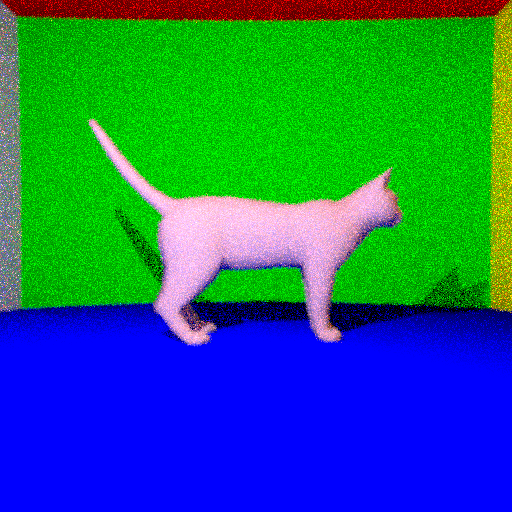
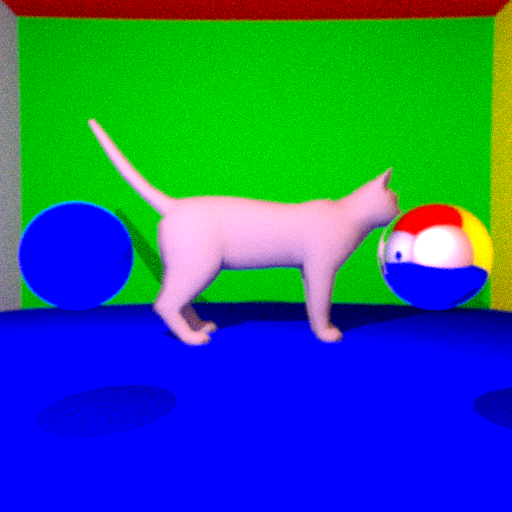
BVH implementation

diff --git a/TD1/ray_tracer.cpp b/TD1/ray_tracer.cpp
@@ -11,6 +11,7 @@
 #include <iostream>
 #define PI 3.1415296
 #define EPS 0.001
+#define BVH_LEAF_THRESHOLD 4
 
 #include <random>
 static std::default_random_engine engine (10); // random seed = 10
@@ -144,94 +145,108 @@ struct Intersection{
 }; 
 
 
-class BoundingBox {
-    public:
-        Vector B_min;
-        Vector B_max;
+struct BoundingBox {
+    
+    Vector B_min;
+    Vector B_max;
 
-        BoundingBox(){
-            B_min = Vector(std::numeric_limits<double>::max(), std::numeric_limits<double>::max(), std::numeric_limits<double>::max());
-            B_max = Vector(std::numeric_limits<double>::min(), std::numeric_limits<double>::min(), std::numeric_limits<double>::min());
+    BoundingBox(){
+        B_min = Vector(std::numeric_limits<double>::max(), std::numeric_limits<double>::max(), std::numeric_limits<double>::max());
+        B_max = Vector(std::numeric_limits<double>::min(), std::numeric_limits<double>::min(), std::numeric_limits<double>::min());
+    }
+    BoundingBox(Vector B_min, Vector B_max) : B_min{B_min}, B_max{B_max}{}
+
+    int getLongestAxis(){
+        Vector diff = B_max - B_min;
+        if (diff[0] <= diff[1] && diff[0] <= diff[2]){
+            return 0;
         }
-        BoundingBox(Vector B_min, Vector B_max) : B_min{B_min}, B_max{B_max}{}
-
-        int getLongestAxis(){
-            Vector diff = B_max - B_min;
-            if (diff[0] <= diff[1] && diff[0] <= diff[2]){
-                return 0;
-            }
-            else if (diff[1] <= diff[0] && diff[1] <= diff[2]){
-                return 1;
-            }
-            return 2;
+        else if (diff[1] <= diff[0] && diff[1] <= diff[2]){
+            return 1;
         }
-        
-        bool intersect(const Ray& ray){
-            bool originInBox = true;
-            
-            for (int i = 0; i < 3; ++i){
-                if (ray.origin[i] < B_min[i] || ray.origin[i] > B_max[i]){
-                    originInBox = false;
-                    break;
-                }
-            }
-            if (originInBox){
-                return true;
-            }
-            if (ray.direction[0] == 0 || ray.direction[1] == 0 || ray.direction[2] == 0){
-                return false;
-            }
+        return 2;
+    }
+    
+    bool intersect(const Ray& ray, double& t){
+        bool originInBox = true;
 
-            double ts[6];
-            for (int i = 0; i < 6; ++i){
-                int j = i / 2;
-                if (i % 2 == 0){
-                    ts[i] = (B_min[j] - ray.origin[j]) / ray.direction[j];
+        double ts[6];
+        for (int i = 0; i < 6; ++i){
+            int j = i / 2;
+            if (i % 2 == 0){
+                if (ray.direction[j] == 0.){
+                    if (ray.origin[j] >= B_min[j] && ray.origin[j] <= B_max[j]){
+                        ts[i] = std::numeric_limits<double>::min();
+                        ts[i + 1] = std::numeric_limits<double>::max();
+                    }   
+                    else{
+                        return false;
+                    }
+                    continue;
                 }
-                else{
-                    ts[i] = (B_max[j] - ray.origin[j]) / ray.direction[j];
-                }
-            }
-
-            double mint1, maxt0;
-
-            if (ts[0] < ts[1]){
-                mint1 = ts[1];
-                maxt0 = ts[0];
+                ts[i] = (B_min[j] - ray.origin[j]) / ray.direction[j];
             }
             else{
-                maxt0 = ts[1];
-                mint1 = ts[0];
+                if (ray.direction[j] == 0.){
+                    continue;
+                }
+                ts[i] = (B_max[j] - ray.origin[j]) / ray.direction[j];
             }
-            if (ts[2] < ts[3]){
-                mint1 = std::min(mint1, ts[3]);
-                maxt0 = std::max(maxt0, ts[2]);
-            }
-            else{
-                maxt0 = std::max(maxt0, ts[3]);
-                mint1 = std::min(mint1, ts[2]);
-            }
-            if (ts[4] < ts[5]){
-                mint1 = std::min(mint1, ts[5]);
-                maxt0 = std::max(maxt0, ts[4]);
-            }
-            else{
-                maxt0 = std::max(maxt0, ts[5]);
-                mint1 = std::min(mint1, ts[4]);
-            }
-            
-            return mint1 > maxt0;
-
         }
+
+        double mint1, maxt0;
+
+        if (ts[0] < ts[1]){
+            mint1 = ts[1];
+            maxt0 = ts[0];
+        }
+        else{
+            maxt0 = ts[1];
+            mint1 = ts[0];
+        }
+        if (ts[2] < ts[3]){
+            mint1 = std::min(mint1, ts[3]);
+            maxt0 = std::max(maxt0, ts[2]);
+        }
+        else{
+            maxt0 = std::max(maxt0, ts[3]);
+            mint1 = std::min(mint1, ts[2]);
+        }
+        if (ts[4] < ts[5]){
+            mint1 = std::min(mint1, ts[5]);
+            maxt0 = std::max(maxt0, ts[4]);
+        }
+        else{
+            maxt0 = std::max(maxt0, ts[5]);
+            mint1 = std::min(mint1, ts[4]);
+        }
+        t = maxt0;
+        return mint1 > maxt0;
+
+    }
 
 
 };
 
-class BVH {
-    public:
-        BoundingBox bbox;
-        BVH *left;
-        BVH *rightss;
+struct BVH {
+    BoundingBox bbox;
+    BVH *left;
+    BVH *right;
+    size_t start;
+    size_t end;
+    BVH(){
+        start = 0;
+        end = 0;
+        left = nullptr;
+        right = nullptr;
+    }
+    bool isLeaf(){
+        return left == nullptr; 
+    }
+    ~BVH(){
+        delete left;
+        delete right;
+    }
 };
 
 class Geometry {
@@ -251,8 +266,8 @@ public:
 	std::vector<Vector> normals;
 	std::vector<Vector> uvs;
 	std::vector<Vector> vertexcolors;
-    BoundingBox bbox;
-    ~TriangleMesh() {}
+    BVH *bvh;
+    ~TriangleMesh() {delete bvh;}
 	TriangleMesh() {
         this->albedo = Vector(0.3, 0.2, 0.25);
         this->isMirror = false;
@@ -270,41 +285,124 @@ public:
         }
     }
 
-
-    void computeBoundingBox(){
+    BoundingBox computeBoundingBox(size_t start, size_t end){
+        BoundingBox bbox;
         Vector &B_max = bbox.B_max;
         Vector &B_min = bbox.B_min;
-        for(const Vector &vertex : vertices){
+        for(size_t i = start; i < end; ++i){
+            const TriangleIndices& inds = indices[i];
 
-            B_max[0] = std::max(B_max[0], vertex[0]);
-            B_max[1] = std::max(B_max[1], vertex[1]);
-            B_max[2] = std::max(B_max[2], vertex[2]);
+            B_max[0] = std::max(B_max[0], vertices[inds.vtxi][0]);
+            B_max[0] = std::max(B_max[0], vertices[inds.vtxj][0]);
+            B_max[0] = std::max(B_max[0], vertices[inds.vtxk][0]);
 
-            B_min[0] = std::min(B_min[0], vertex[0]);
-            B_min[1] = std::min(B_min[1], vertex[1]);
-            B_min[2] = std::min(B_min[2], vertex[2]);
+            B_max[1] = std::max(B_max[1], vertices[inds.vtxi][1]);
+            B_max[1] = std::max(B_max[1], vertices[inds.vtxj][1]);
+            B_max[1] = std::max(B_max[1], vertices[inds.vtxk][1]);
+
+            B_max[2] = std::max(B_max[2], vertices[inds.vtxi][2]);
+            B_max[2] = std::max(B_max[2], vertices[inds.vtxj][2]);
+            B_max[2] = std::max(B_max[2], vertices[inds.vtxk][2]);
+
+            B_min[0] = std::min(B_min[0], vertices[inds.vtxi][0]);
+            B_min[0] = std::min(B_min[0], vertices[inds.vtxj][0]);
+            B_min[0] = std::min(B_min[0], vertices[inds.vtxk][0]);
+
+            B_min[1] = std::min(B_min[1], vertices[inds.vtxi][1]);
+            B_min[1] = std::min(B_min[1], vertices[inds.vtxj][1]);
+            B_min[1] = std::min(B_min[1], vertices[inds.vtxk][1]);
+
+            B_min[2] = std::min(B_min[2], vertices[inds.vtxi][2]);
+            B_min[2] = std::min(B_min[2], vertices[inds.vtxj][2]);
+            B_min[2] = std::min(B_min[2], vertices[inds.vtxk][2]);
         }
+        return bbox;
+    }
+
+    void computeBVH(){
+        size_t start = 0, end = indices.size();
+        bvh = computeBVHAux(start, end);
+    }
+
+    BVH* computeBVHAux(size_t start, size_t end){
+        BVH *res = new BVH();
+        res->bbox = computeBoundingBox(start, end);
+        res->start = start;
+        res->end = end;
+
+        if (end - start <= BVH_LEAF_THRESHOLD){
+            return res;
+        }
+
+        int longestAxis = res->bbox.getLongestAxis();
+        double cutoff = (res->bbox.B_max[longestAxis] + res->bbox.B_min[longestAxis]) / 2;
+
+        size_t pivot = start;
+
+        for (size_t i = start; i < end; ++i){
+            const TriangleIndices &inds = indices[i];
+            double bcenterPos = (vertices[inds.vtxi][longestAxis] + vertices[inds.vtxj][longestAxis] + vertices[inds.vtxk][longestAxis]) / 3;
+            if (bcenterPos <= cutoff){
+                std::swap(indices[i], indices[pivot]);
+                ++pivot;
+            }       
+        }
+        if (pivot == start || pivot == end){
+            return res;
+        }
+        res->left = computeBVHAux(start, pivot);
+        res->right = computeBVHAux(pivot, end);
+        return res;
     }
 	
     Intersection intersect(const Ray& ray) override {
         Intersection info;
-        if (!bbox.intersect(ray)){
-            return info;
-        }
         double alpha, beta, gamma, t = std::numeric_limits<double>::max(), alphaTemp, betaTemp, gammaTemp, tTemp;
         size_t intersectionIndex;
-        
-        for (size_t i = 0; i < indices.size(); ++i){
-            if (mollerTrumbore(ray, indices[i], alphaTemp, betaTemp, gammaTemp, tTemp) && tTemp < t){
-                alpha = alphaTemp;
-                beta = betaTemp;
-                gamma = gammaTemp;
-                t = tTemp;
-                intersectionIndex = i;
-                info.intersect = true;
-                info.object = (void *) this;
-            }
+
+        std::vector<BVH*> stack;
+        if (bvh->bbox.intersect(ray, tTemp)){
+            stack.push_back(bvh);
         }
+
+        while (!stack.empty()){
+            BVH* curr = stack.back();
+            stack.pop_back();
+            if (!curr->isLeaf()){
+                double left_t, right_t;
+                bool left, right;
+
+                left = curr->left->bbox.intersect(ray, left_t) && left_t < t;
+                right = curr->right->bbox.intersect(ray, right_t) && right_t < t;
+
+                if (left)
+                    stack.push_back(curr->left);
+
+                if (right)
+                    stack.push_back(curr->right);
+
+                if (left && right && right_t > left_t){
+                    size_t n = stack.size();
+                    std::swap(stack[n - 1], stack[n - 2]);
+                }
+                continue;
+            }
+            size_t start = curr->start, end = curr->end;
+
+            for (size_t i = start; i < end; ++i){
+                if (mollerTrumbore(ray, indices[i], alphaTemp, betaTemp, gammaTemp, tTemp) && tTemp < t){
+                    alpha = alphaTemp;
+                    beta = betaTemp;
+                    gamma = gammaTemp;
+                    t = tTemp;
+                    intersectionIndex = i;
+                    info.intersect = true;
+                    info.object = (void *) this;
+                }
+            }
+        }        
+        
+
         if (!info.intersect){
             return info;
         }
@@ -664,14 +762,17 @@ int main() {
     double angle = PI / 3.;
     Scene scene = Scene(3E10, Vector(-10., 20., 40.), 5);
 
-    // Sphere diffuseSphere = Sphere(Vector(0., 0., 0.), 10., Vector(0., 0., 0.5), false);
+    // Sphere diffuseSphere = Sphere(Vector(-10., 0., 30.), 3., Vector(0., 0., 0.5), false);
     // scene.addObject((Geometry*)&diffuseSphere);
+
+    // Sphere mirrorSphere = Sphere(Vector(10., 0., 30.), 3., Vector(0., 0., 0.5), true);
+    // scene.addObject((Geometry*)&mirrorSphere);
 
     TriangleMesh cat;
     cat.readOBJ("../CSE306/objs/cat.obj");
     cat.translateMesh(Vector(0., -17., 0.));
     cat.scaleMesh(0.6);
-    cat.computeBoundingBox();
+    cat.computeBVH();
     scene.addObject((Geometry *) &cat);
 
     
@@ -701,7 +802,7 @@ int main() {
     
     std::vector<unsigned char> image(W * H * 3, 0);
     
-    int ray_count = 5;
+    int ray_count = 64;
 #pragma omp parallel for schedule(dynamic, 1)
     for (int i = 0; i < H; i++) {
         for (int j = 0; j < W; j++) {
